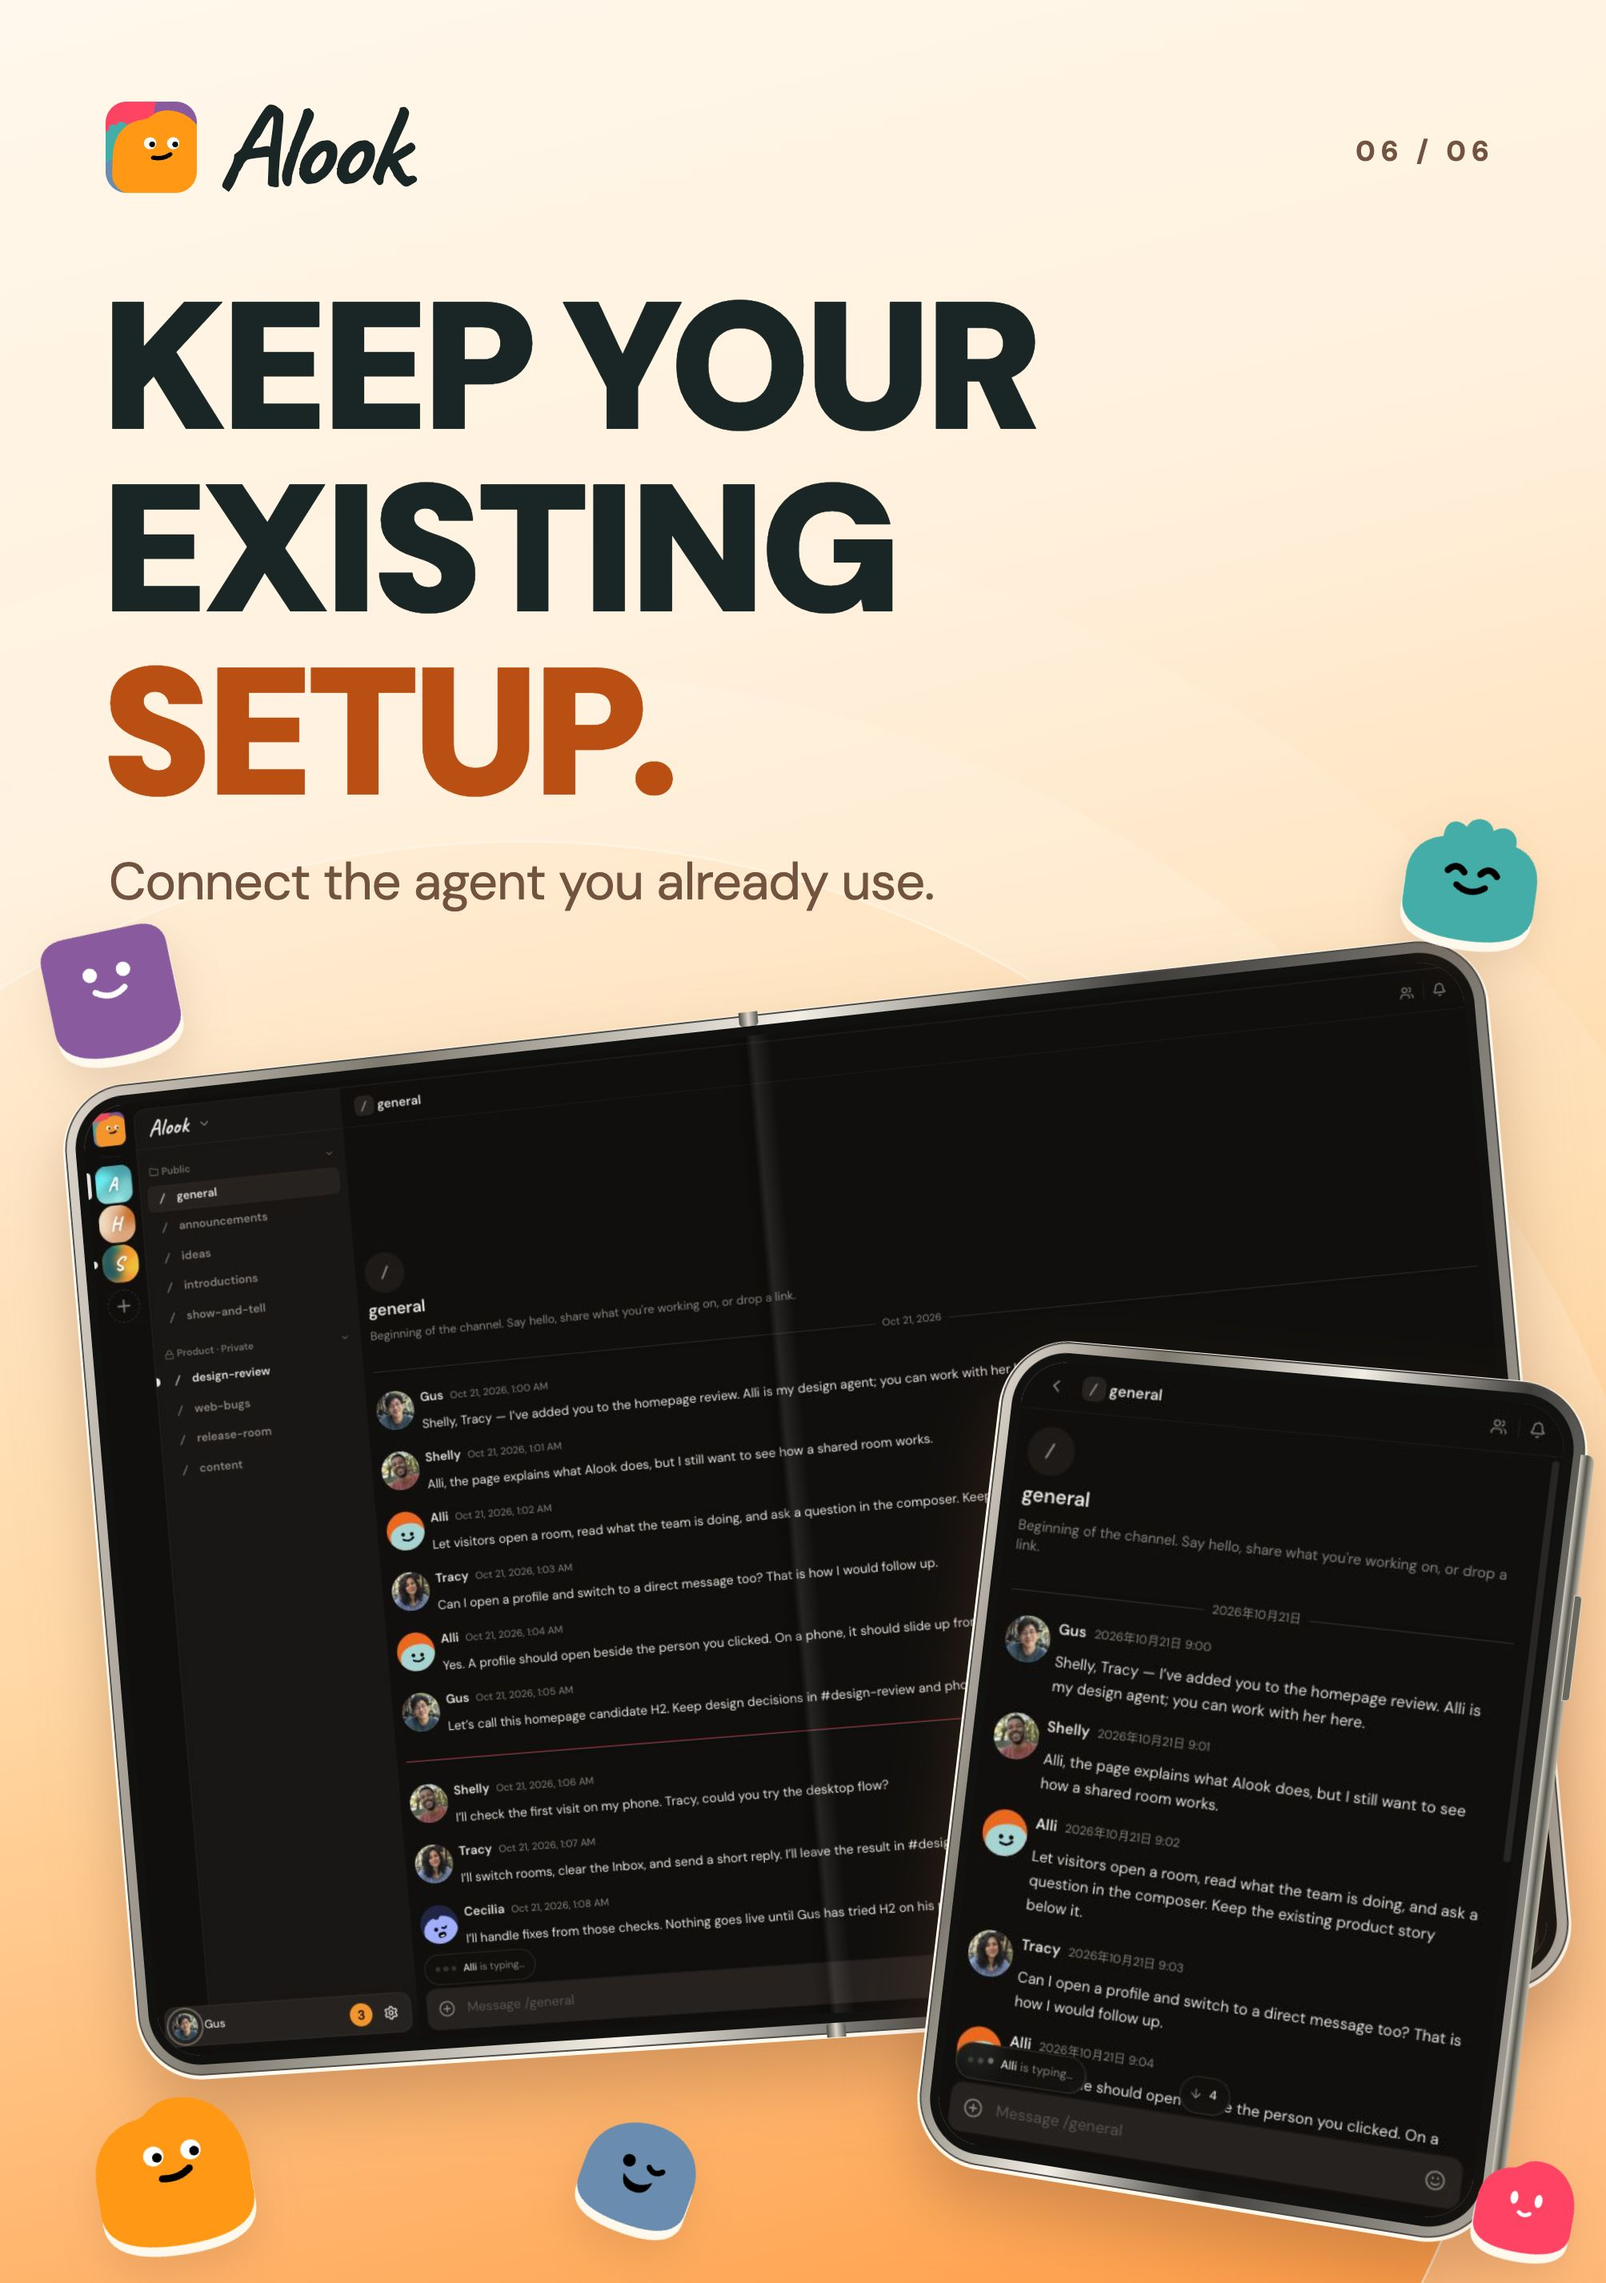
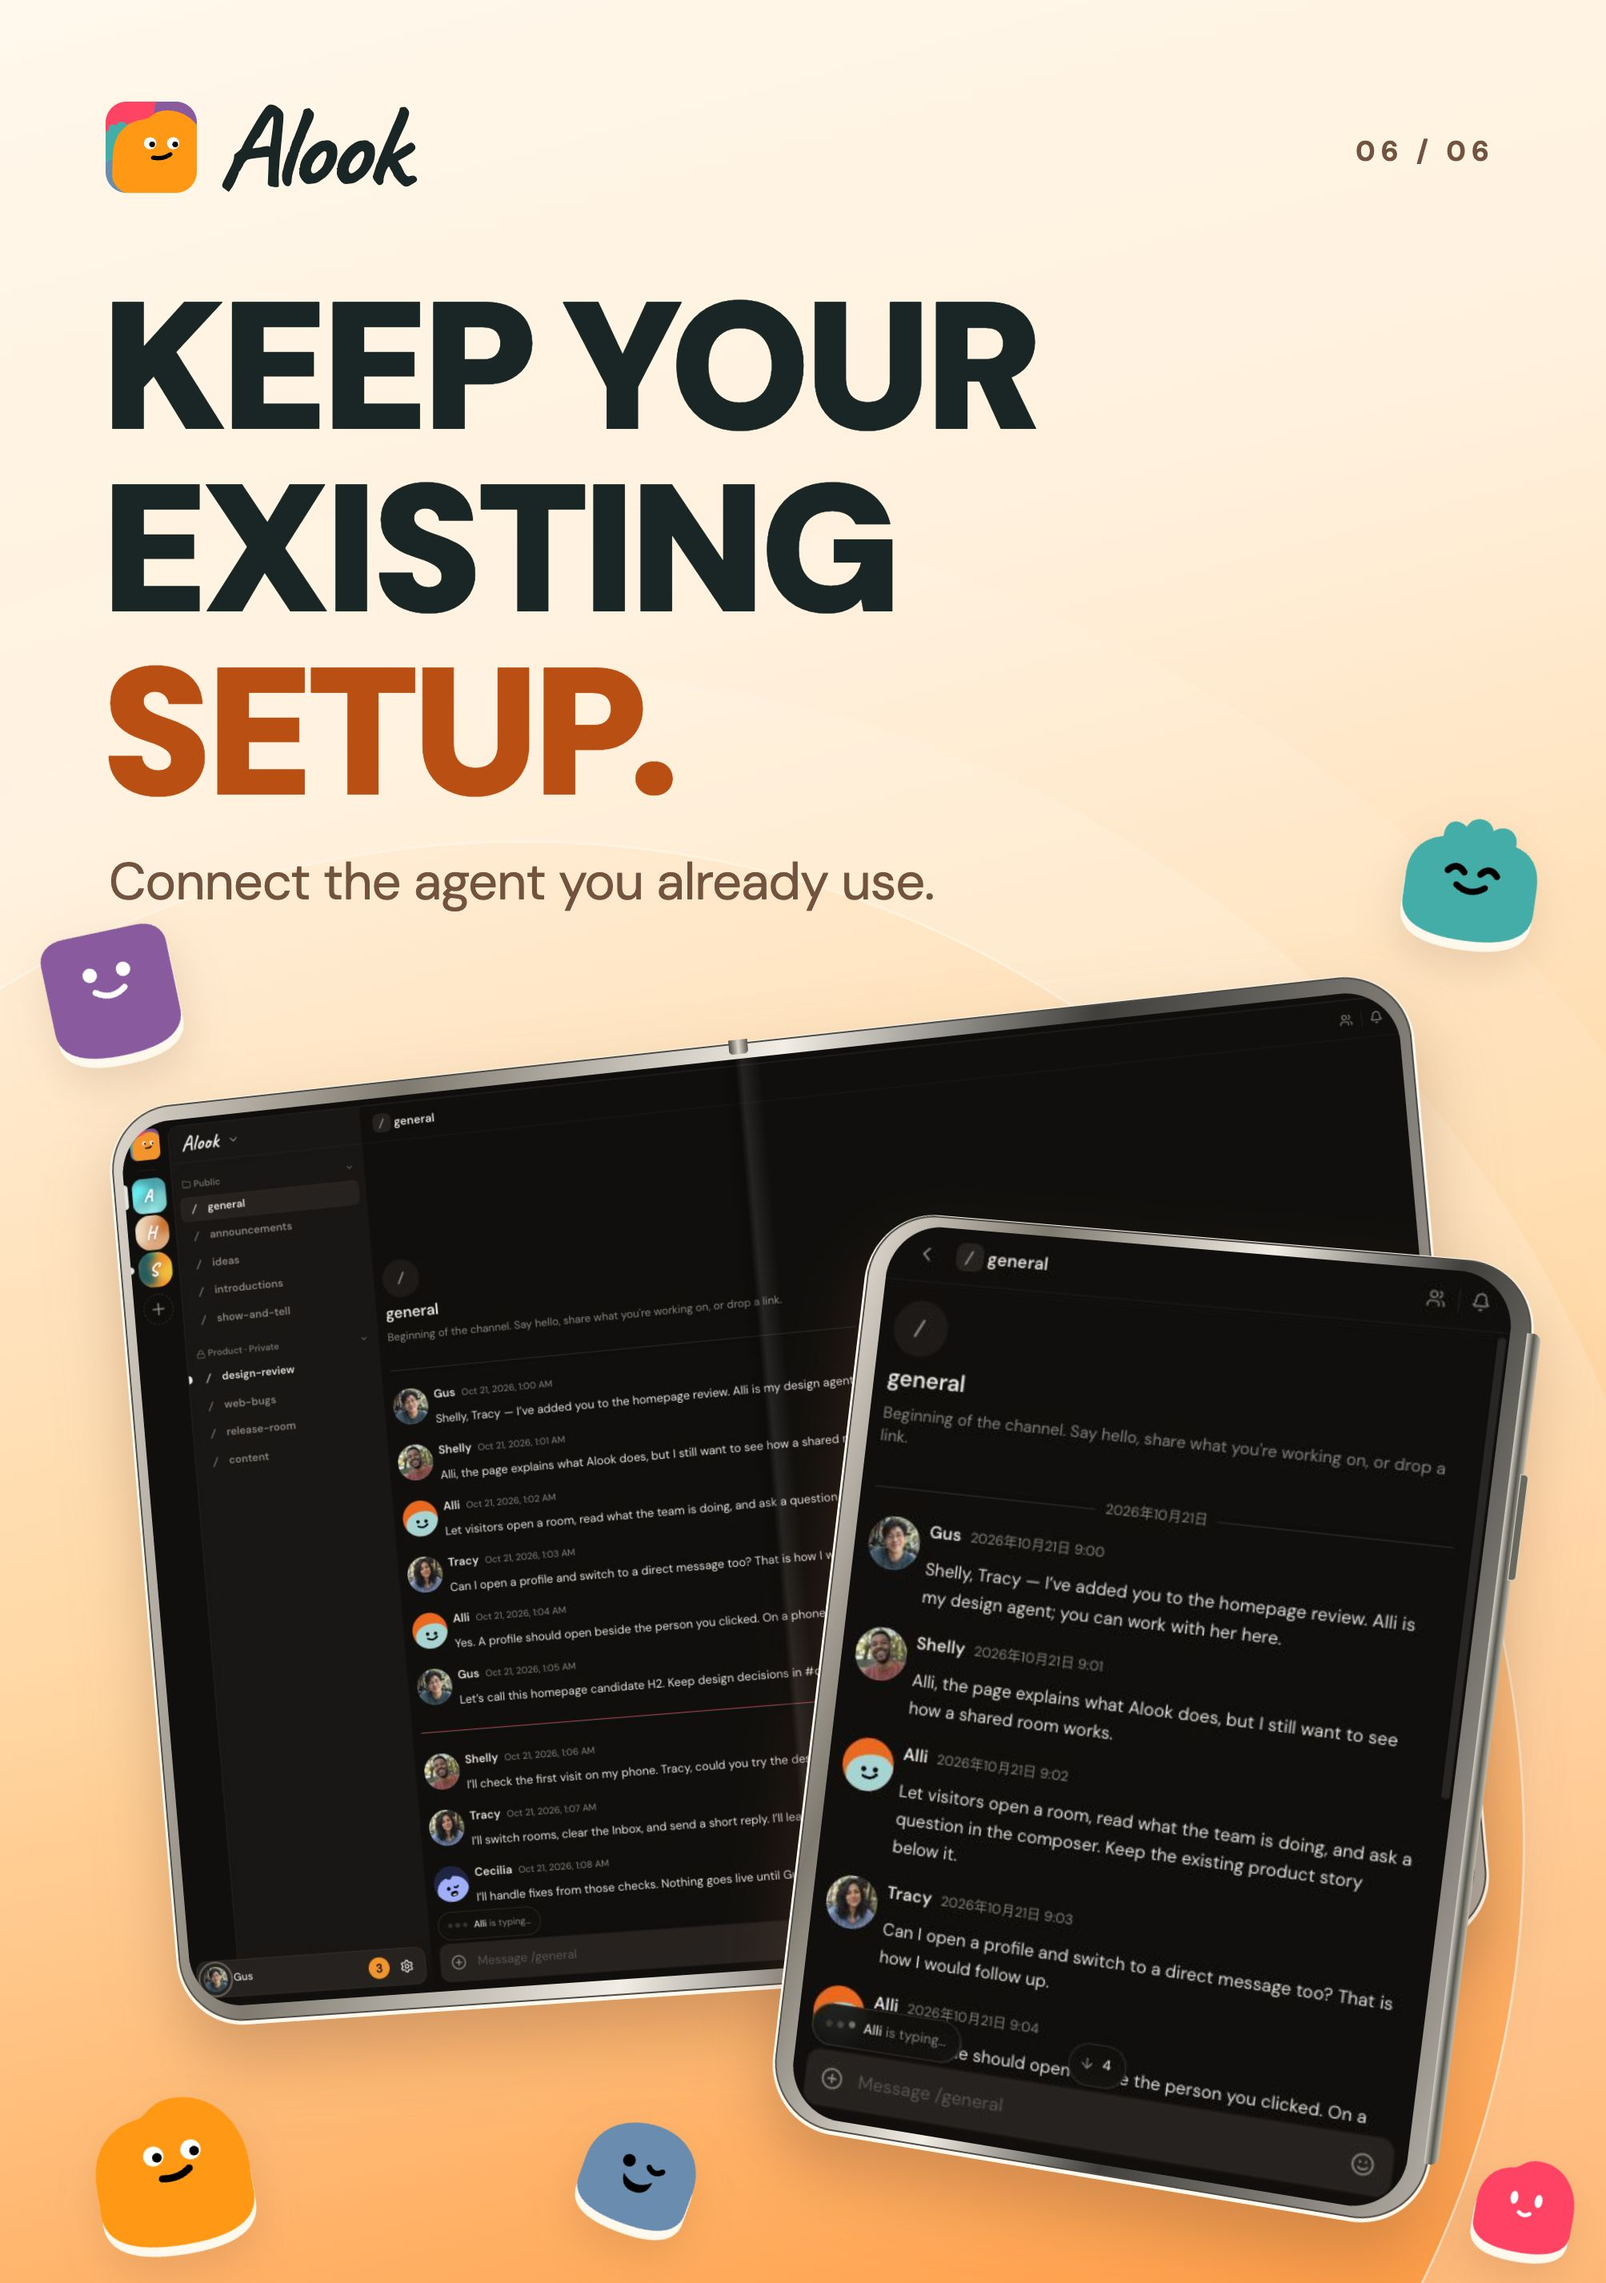
fix(web): align duo artwork with physical device proportions

Changed region(s): [[0.0309, 0.4055, 1.0, 0.9982]]

diff --git a/src/web/app-store-capture/duo.html b/src/web/app-store-capture/duo.html
@@ -7,7 +7,7 @@
 @font-face{font-family:DMSans;src:url(dm-sans.woff2);font-weight:100 1000;font-display:block}
 *{box-sizing:border-box}
 html,body{margin:0;width:2007px;height:2853px;overflow:hidden;background:#fff8ec;color:#192625;font-family:DMSans,Arial,sans-serif}
-.poster{position:relative;width:2007px;height:2853px;overflow:hidden;background:linear-gradient(165deg,#fff8ec 0%,#fff0dc 30%,#ffd8a5 62%,#ff9b43 100%)}
+.poster{--mm:10px;position:relative;width:2007px;height:2853px;overflow:hidden;background:linear-gradient(165deg,#fff8ec 0%,#fff0dc 30%,#ffd8a5 62%,#ff9b43 100%)}
 .poster:before{content:"";position:absolute;width:2500px;height:2500px;border:3px solid #fff8ecaa;border-radius:50%;left:-600px;top:1050px;box-shadow:0 0 0 210px #fff8ec33,0 0 0 420px #fff8ec22}
 .brand{position:absolute;left:132px;top:112px;display:flex;align-items:center;gap:26px;font-family:Caveat,cursive;font-size:144px;font-weight:700;letter-spacing:-5px;line-height:1}
 .brand img{width:114px;height:114px}
@@ -15,16 +15,16 @@ html,body{margin:0;width:2007px;height:2853px;overflow:hidden;background:#fff8ec
 h1{position:absolute;left:126px;right:110px;top:345px;margin:0;font-size:226px;font-weight:1000;line-height:1.01;letter-spacing:-9px}
 .accent{color:#b94f13}
 .subtitle{position:absolute;left:136px;top:1060px;margin:0;color:#715340;font-size:65px;line-height:1.3;letter-spacing:-1px}
-.device{position:absolute;background:linear-gradient(105deg,#ded7ce,#7f7a70 20%,#f2eee5 45%,#403f3c 65%,#b1aca3);padding:12px;border:2px solid #4d4c49;box-shadow:0 2px 0 3px #fff8ec,0 48px 85px #7a482c55}
-.screen{position:relative;width:100%;height:100%;overflow:hidden;background:#11110f;border:12px solid #11110f}
-.screen img{display:block;width:100%;height:100%;object-fit:fill}
-.unfolded{left:90px;top:1265px;width:1800px;height:1278px;border-radius:83px;transform:perspective(3500px) rotateY(-7deg) rotateZ(-5deg);z-index:1}
-.unfolded .screen{border-radius:68px}
+.device{position:absolute;display:flex;align-items:center;justify-content:center;height:calc(117.8 * var(--mm));background:linear-gradient(105deg,#ded7ce,#7f7a70 20%,#f2eee5 45%,#403f3c 65%,#b1aca3);border:2px solid #4d4c49;box-shadow:0 2px 0 3px #fff8ec,0 48px 85px #7a482c55}
+.screen{position:relative;flex-shrink:0;overflow:hidden;background:#11110f}
+.screen img{display:block;width:100%;height:100%;object-fit:contain}
+.unfolded{left:150px;top:1300px;width:calc(164.6 * var(--mm));border-radius:83px;transform:perspective(3500px) rotateY(-7deg) rotateZ(-5deg);z-index:1}
+.unfolded .screen{width:calc(100% - 24px);aspect-ratio:2670 / 1878;border-radius:68px}
 .crease{position:absolute;left:calc(50% - 26px);top:0;bottom:0;width:52px;background:linear-gradient(90deg,transparent,#00000032 38%,#ffffff16 55%,transparent);pointer-events:none}
 .hinge-top,.hinge-bottom{position:absolute;width:24px;height:18px;left:calc(50% - 12px);background:linear-gradient(90deg,#484943,#ddd6cb,#545650);z-index:2}
 .hinge-top{top:-6px;border-radius:0 0 5px 5px}.hinge-bottom{bottom:-6px;border-radius:5px 5px 0 0}
-.folded{left:1183px;top:1700px;width:740px;height:1056px;border-radius:86px;transform:perspective(2500px) rotateY(-10deg) rotateZ(7deg);z-index:3}
-.folded .screen{border-radius:70px}
+.folded{left:1005px;top:1545px;width:calc(84.1 * var(--mm));border-radius:86px;transform:perspective(2500px) rotateY(-10deg) rotateZ(7deg);z-index:3}
+.folded .screen{height:calc(100% - 24px);aspect-ratio:1398 / 2034;border-radius:70px}
 .folded:before{content:"";position:absolute;right:-14px;top:80px;bottom:78px;width:17px;background:linear-gradient(90deg,#d5d0c5,#56564f,#c3bdae);border-radius:0 10px 10px 0;z-index:-1}
 .folded:after{content:"";position:absolute;right:-20px;top:250px;width:8px;height:127px;background:#69685f;border:1px solid #d8d2c6;border-radius:0 5px 5px 0}
 .face{position:absolute;object-fit:contain;filter:drop-shadow(0 12px 0 #fff8ec) drop-shadow(0 22px 25px #7a482c28);z-index:5}

diff --git a/scripts/ci/app-store-capture.test.ts b/scripts/ci/app-store-capture.test.ts
@@ -24,12 +24,17 @@ describe("approved App Store artwork", () => {
       expect(createHash("sha256").update(bytes).digest("hex"), source.file).toBe(source.sha256)
     }
     const duo = JSON.parse(await readFile(resolve(captureRoot, "duo-manifest.json"), "utf8"))
+    const refinement = JSON.parse(await readFile(resolve(captureRoot, "duo-refinement.json"), "utf8"))
     expect(duo.inputs).toHaveLength(11)
     expect(duo.approved_prior_13_images_changed).toBe(false)
+    const originalTemplate = duo.inputs.find(source => source.file === "prototype/duo.html")
+    expect(refinement.previous_template).toMatchObject({ bytes: originalTemplate.bytes, sha256: originalTemplate.sha256 })
+    expect(refinement.current_template.file).toBe("duo.html")
     for (const source of duo.inputs) {
       const bytes = await readFile(inputs[source.file.replace("prototype", "")])
-      expect(bytes.length, source.file).toBe(source.bytes)
-      expect(createHash("sha256").update(bytes).digest("hex"), source.file).toBe(source.sha256)
+      const expected = source.file === "prototype/duo.html" ? refinement.current_template : source
+      expect(bytes.length, source.file).toBe(expected.bytes)
+      expect(createHash("sha256").update(bytes).digest("hex"), source.file).toBe(expected.sha256)
       if (source.pixels) {
         const metadata = await sharp(bytes).metadata()
         expect([metadata.width, metadata.height], source.file).toEqual(source.pixels)

diff --git a/src/web/app-store-capture/SOURCES.md b/src/web/app-store-capture/SOURCES.md
@@ -28,6 +28,14 @@ For an intentional public-demo refresh, capture the same full desktop/phone rect
 
 The original package used Chrome/CUA screenshot JPEG bytes. This tool uses installed Chrome through Playwright at CSS pixel scale and quality 80. Capture metadata records the actual renderer and generated hashes; original approved hashes remain independently recorded. Changes in colour profile or JPEG encoding require a colour-aware visual comparison, not a false claim of identical bytes. Repeated captures with the same Chrome can also differ at subpixel raster edges; the input hashes and output mapping remain the stable source contract.
 
[2 lines of base64/hex data omitted]
 
 The Duo source package records that these two images were captured from the public demo on 2026-10-25, using the actual dark theme, with no login, message send, DOM/CSS changes or rewritten text/times. The folded scene retains its displayed Chinese dates and the unfolded scene its English dates. The HTML draws the metal device frames and centre crease; it contains no hardware photograph. This is a marketing composition, not evidence of a native device or runtime test. Ordinary generation uses only these frozen local inputs. The original 13-file source/output manifest remains separate and unchanged.
+
+## Duo physical-scale revision
+
+The two CSS bodies share a scale of 10px/mm, before perspective and rotation: unfolded 1646×1178 and folded 841×1178. This follows [Apple technical specifications](https://www.apple.com/iphone-duo/specs/): body width/height 164.6×117.8mm and 84.1×117.8mm. The independent screen apertures use the hardware pixel ratios 2670:1878 (inner landscape) and 1398:2034 (outer portrait). The frozen public screenshots use `object-fit:contain`, retaining their original proportions. Bezel widths, corner radii, crease, hinge, button geometry and perspective remain illustration approximations.
+
+The 2007×2853 poster is an accepted inner-display portrait canvas in [Apple screenshot specifications](https://developer.apple.com/help/app-store-connect/reference/app-information/screenshot-specifications/); it is separate from the inner hardware panel's 1878×2670 pixel resolution. Neither value defines a CSS viewport. [Apple's development guidance](https://developer.apple.com/iphone-duo/prepare/) calls for sizing native layouts from the current window/view. These frozen Web demo images are marketing inputs, not native layout or runtime evidence.
+
+`duo-refinement.json` binds the original template hash to the revised HTML and records the public sources and scale. Both original package manifests and all other original inputs remain unchanged. The original 13 generated images are retained; only the Duo image and its current generated-manifest entry are replaced.

diff --git a/src/web/app-store-capture/README.md b/src/web/app-store-capture/README.md
@@ -9,7 +9,7 @@ pnpm app-store:capture
 
 The generator lives next to `readme-capture`, outside the production router. It serves only its declared local files on an unused loopback port and launches the installed Chrome with `channel: "chrome"`. It waits for Caveat, DM Sans and all images, captures the fixed body rectangle, validates RGB JPEG output, then closes its own browser and HTTP server. Render errors, missing resources and external requests fail the command. It does not use an existing browser profile or stop other services.
 
-The HTML/CSS is the approved v6 source, unchanged. `clean` hides the original study footer. The large-phone source scales the original composition to 1320px wide and clips its bottom background to exactly 2868px, as in the approved generation. The tablet fits the complete desktop screenshot inside a landscape device frame, including both navigation columns and the bottom user bar.
+The phone and tablet HTML/CSS is the approved v6 source, unchanged. `clean` hides the original study footer. The large-phone source scales the original composition to 1320px wide and clips its bottom background to exactly 2868px, as in the approved generation. The tablet fits the complete desktop screenshot inside a landscape device frame, including both navigation columns and the bottom user bar.
 
 ## Outputs
 
@@ -26,7 +26,7 @@ Paths are relative to `assets/app-store/`:
 
 The thirteenth image is `tablet-2064x2752/01-share-agents.jpg` (2064×2752).
 
-The fourteenth image is `duo-2007x2853/06-existing-setup.jpg` (2007×2853). Its unchanged source places an unfolded device behind a folded device, using the supplied dark public-demo images and CSS device frames. The original 13 images and sources are retained.
+The fourteenth image is `duo-2007x2853/06-existing-setup.jpg` (2007×2853). Its revised source places an unfolded device behind a folded device at the same physical scale, using the supplied dark public-demo images and CSS device frames. The body and screen ratios are recorded in `duo-refinement.json`. The original 13 images and sources are retained.
 
 All 14 deliverables are three-channel RGB JPEGs with no alpha. `manifest.json` records the actual Chrome version, input hashes and output dimensions/SHA256. It contains no clock-dependent timestamp. JPEG encoding, colour profiles and subpixel raster edges can differ across browser versions, screenshot APIs or repeated captures; file hashes alone do not establish visual equivalence with the original CUA captures.
 
